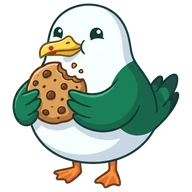
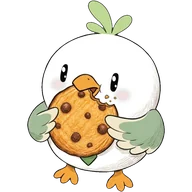
feat(consent): 정글 영상 갈매기 + 색연필 톤 쿠키 마스코트 반영 및 배너 컴팩트화

diff --git a/components/consent/ConsentBanner.tsx b/components/consent/ConsentBanner.tsx
@@ -14,19 +14,19 @@ import {
 import { useConsent } from "@/lib/consent/useConsent"
 import { cn } from "@/lib/utils"
 
-// 말풍선 왼쪽의 그림 — 쿠키 먹는 정글 갈매기(Gemini 3 Pro Image 생성, 2026-11-04, DESIGN.md 결정 로그 V22).
+// 말풍선 왼쪽의 그림 — 쿠키 먹는 정글 갈매기(DESIGN.md 결정 로그 V22).
 // 192px 정사각 투명 WebP 를 48px 로 보인다. 바꿀 때는 이 경로 하나만 고친다
 const MASCOT_SRC = "/images/consent/gull-cookie.webp"
 
-// 작은 컨트롤 — 보이는 높이 28px, 누르는 영역은 hit-area 로 44px
+// 컴팩트 컨트롤 — 보이는 높이 24px(min-h-6), 누르는 영역은 hit-area 로 44px 보장
 const BTN =
-  "hit-area inline-flex min-h-7 flex-1 items-center justify-center rounded-(--radius-control) px-2.5 text-note font-semibold transition-colors duration-(--motion-fast) disabled:opacity-40"
+  "hit-area inline-flex min-h-6 flex-1 items-center justify-center rounded-(--radius-control) px-2 text-note font-semibold transition-colors duration-(--motion-fast) ease-soft disabled:opacity-40"
 const PRIMARY_BTN = `${BTN} bg-fg-accent text-fg-on-accent hover:bg-fg-accent-hover`
-const LINE_BTN = `${BTN} border border-line-control text-fg-ink hover:border-line-ink`
+const SUBTLE_BTN = `${BTN} border border-line-strong bg-surface-sunken text-fg-body hover:border-line-ink hover:text-fg-ink`
 
 const OPTIONAL_ROWS: Array<{ key: keyof ConsentChoice; label: string; desc: string }> = [
   { key: "analytics", label: "분석", desc: "사이트 개선" },
-  { key: "marketing", label: "마케팅", desc: "광고 성과 확인" },
+  { key: "marketing", label: "마케팅", desc: "광고 성과" },
 ]
 
 /**
@@ -89,7 +89,7 @@ export function ConsentBanner() {
       aria-label="쿠키 사용 동의"
       data-consent-banner
       data-inert-with-menu="hide"
-      className="fixed bottom-[calc(env(safe-area-inset-bottom)+12px)] left-3 z-(--z-consent) flex max-w-[calc(100vw-24px)] items-end gap-1.5 sm:bottom-6 sm:left-6"
+      className="group fixed bottom-[calc(env(safe-area-inset-bottom)+12px)] left-3 z-(--z-consent) flex max-w-[calc(100vw-24px)] items-end gap-1 sm:bottom-5 sm:left-5"
     >
       <Image
         src={MASCOT_SRC}
@@ -97,46 +97,54 @@ export function ConsentBanner() {
         width={192}
         height={192}
         aria-hidden="true"
-        className="-mb-1 size-12 shrink-0 object-contain"
+        className="-mb-0.5 size-12 shrink-0 select-none object-contain transition-transform duration-(--motion-base) ease-soft group-hover:-rotate-6"
       />
 
-      {/* 말풍선 — 꼬리는 그림 쪽(왼쪽 아래)으로. 꼬리가 잘리지 않게 스크롤은 안쪽 상자가 맡는다 */}
-      <div className="relative w-[248px] max-w-full rounded-md border border-line-hair bg-surface-sheet shadow-deep before:absolute before:-left-[5px] before:bottom-4 before:size-2.5 before:rotate-45 before:border-b before:border-l before:border-line-hair before:bg-surface-sheet">
-        <div className="relative max-h-[calc(100dvh-24px)] overflow-y-auto px-3 py-2.5">
-          <div className="flex items-center justify-between gap-2">
+      {/* 말풍선 — 꼬리는 갈매기 부리·볼 쪽(왼쪽 아래)을 향한다. 꼬리가 잘리지 않게 스크롤은 안쪽 상자가 맡는다 */}
+      <div
+        className={cn(
+          "relative max-w-full rounded-md border border-line-strong bg-surface-sheet shadow-deep before:absolute before:-left-[5px] before:bottom-3.5 before:size-2 before:rotate-45 before:border-b before:border-l before:border-line-strong before:bg-surface-sheet",
+          expanded ? "w-[232px]" : "w-[212px]",
+        )}
+      >
+        <div className="relative max-h-[calc(100dvh-24px)] overflow-y-auto px-2.5 py-2">
+          <div className="flex items-center justify-between gap-1.5">
             <p className="text-label text-fg-ink">쿠키 조금만 쓸게요</p>
             <button
               type="button"
               onClick={toggleSettings}
               aria-expanded={expanded}
               aria-controls={panelId}
-              className="hit-area -mr-1 inline-flex items-center gap-0.5 px-1 text-note text-fg-muted transition-colors duration-(--motion-fast) hover:text-fg-ink"
+              className="hit-area -mr-1 inline-flex items-center gap-0.5 px-1 text-note text-fg-muted transition-colors duration-(--motion-fast) ease-soft hover:text-fg-ink"
             >
               설정
               <ChevronDown
                 aria-hidden
-                className={cn("size-3.5 transition-transform duration-(--motion-fast)", expanded && "rotate-180")}
+                className={cn("size-3 transition-transform duration-(--motion-fast) ease-soft", expanded && "rotate-180")}
               />
             </button>
           </div>
           <p className="mt-0.5 text-note text-fg-muted break-keep">
-            선택 쿠키는 동의하실 때만 켜요.{" "}
-            <Link href="/privacy" prefetch={false} className="link-body whitespace-nowrap">
+            선택 쿠키는 동의 시에만 켜요 ·{" "}
+            <Link href="/privacy" prefetch={false} className="link-quiet text-fg-body whitespace-nowrap">
               자세히
             </Link>
           </p>
 
           {expanded ? (
-            <ul id={panelId} className="mt-2 divide-y divide-line-hair border-t border-line-hair">
-              <li className="flex items-center justify-between gap-3 py-1.5 text-note text-fg-muted">
+            <ul id={panelId} className="mt-1.5 divide-y divide-line-hair border-t border-line-hair">
+              <li className="flex items-center justify-between gap-2 py-1 text-note text-fg-muted">
                 <span>
-                  <span className="mr-1.5 font-semibold text-fg-ink">필수</span>보안·페이지 이동
+                  <span className="mr-1.5 font-semibold text-fg-ink">필수</span>보안·이동
                 </span>
-                <span className="shrink-0">항상 켜짐</span>
+                <span className="inline-flex shrink-0 items-center gap-1 text-fg-body">
+                  <span aria-hidden className="status-dot" />
+                  항상 켜짐
+                </span>
               </li>
               {OPTIONAL_ROWS.map((row) => (
                 <li key={row.key}>
-                  <label className="flex cursor-pointer items-center justify-between gap-3 py-1.5 text-note text-fg-muted">
+                  <label className="flex cursor-pointer items-center justify-between gap-2 py-1 text-note text-fg-muted transition-colors duration-(--motion-fast) ease-soft hover:text-fg-ink">
                     <span>
                       <span className="mr-1.5 font-semibold text-fg-ink">{row.label}</span>
                       {row.desc}
@@ -153,35 +161,33 @@ export function ConsentBanner() {
           ) : null}
 
           {failed ? (
-            <p role="alert" className="mt-1.5 text-note text-fg-danger">
+            <p role="alert" className="mt-1 text-note text-fg-danger">
               저장하지 못했어요. 다시 눌러 주세요.
             </p>
           ) : null}
 
-          <div className="mt-2 flex gap-1.5">
+          <div className="mt-1.5 flex gap-1">
+            <button
+              type="button"
+              onClick={() => void commitChoice(DENIED_CHOICE)}
+              disabled={saving}
+              className={SUBTLE_BTN}
+            >
+              필수만
+            </button>
             {expanded ? (
               <button type="button" onClick={() => void commitChoice(draft)} disabled={saving} className={PRIMARY_BTN}>
                 선택 저장
               </button>
             ) : (
-              <>
-                <button
-                  type="button"
-                  onClick={() => void commitChoice(DENIED_CHOICE)}
-                  disabled={saving}
-                  className={LINE_BTN}
-                >
-                  필수만
-                </button>
-                <button
-                  type="button"
-                  onClick={() => void commitChoice(GRANTED_CHOICE)}
-                  disabled={saving}
-                  className={PRIMARY_BTN}
-                >
-                  모두 동의
-                </button>
-              </>
+              <button
+                type="button"
+                onClick={() => void commitChoice(GRANTED_CHOICE)}
+                disabled={saving}
+                className={PRIMARY_BTN}
+              >
+                모두 동의
+              </button>
             )}
           </div>
         </div>
